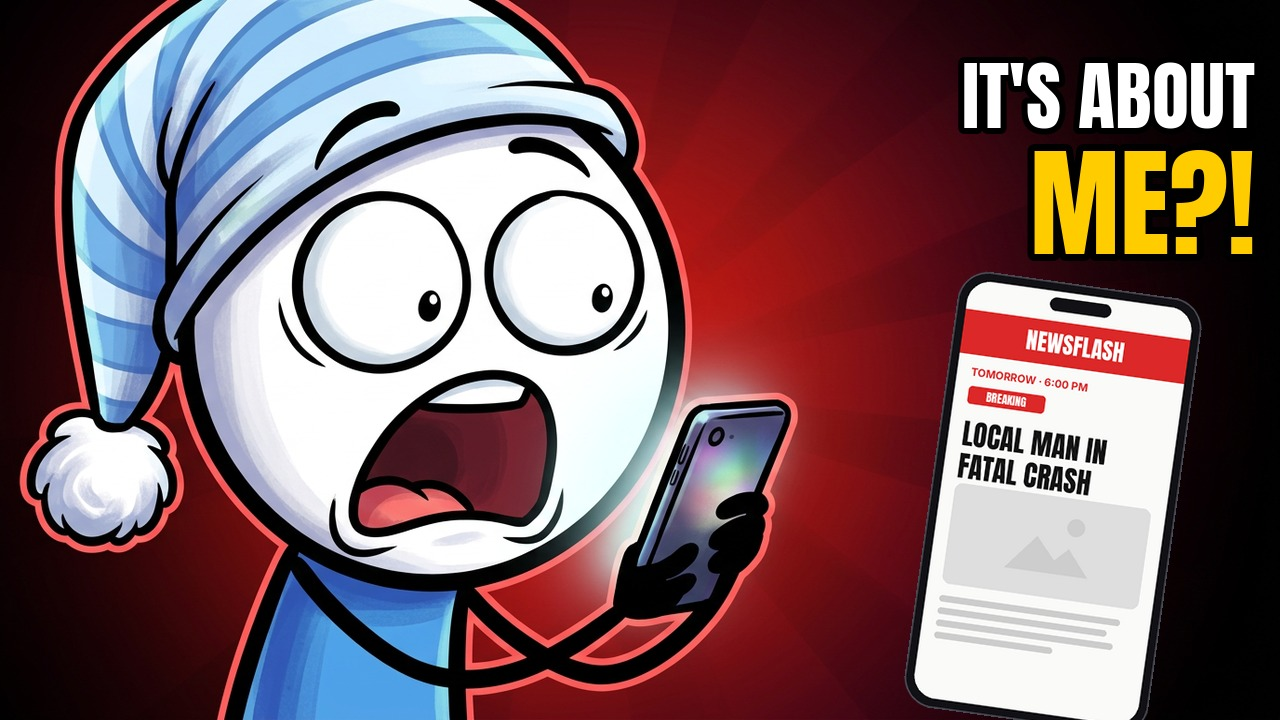
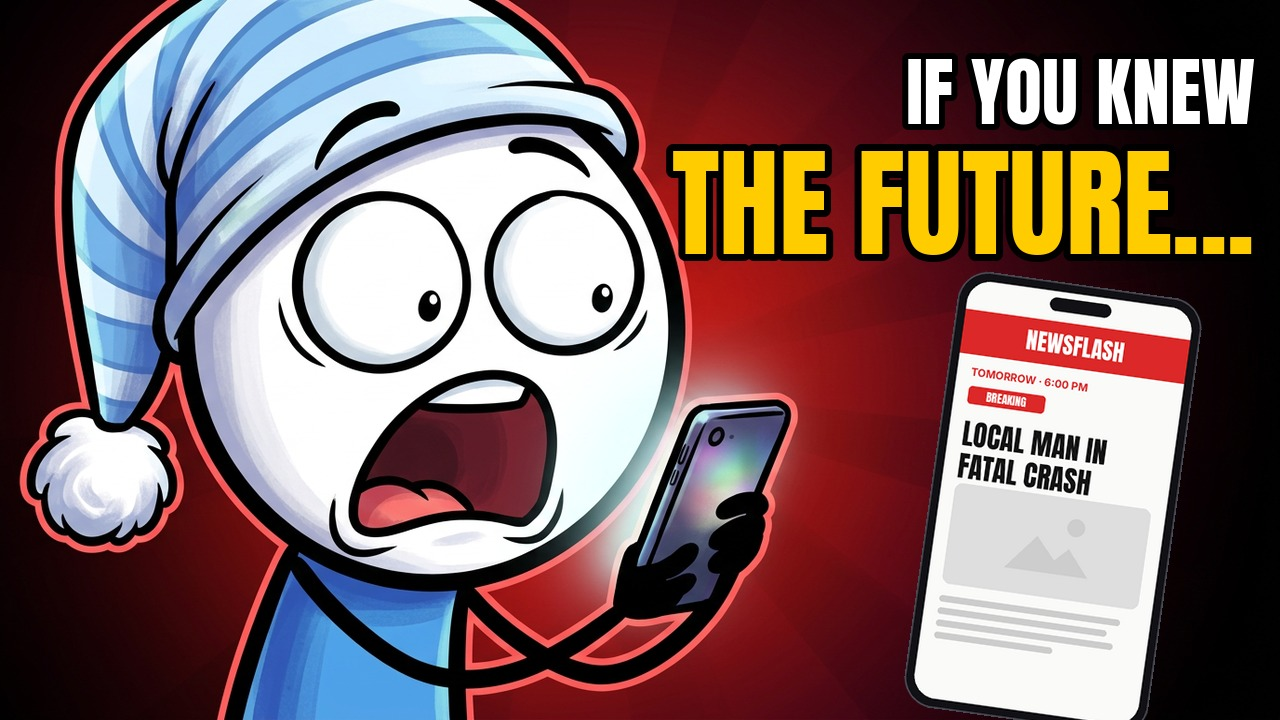
EP04: future-themed thumbnail variants
Claude-Session: https://claude.ai/code/session_013PjZvumhTLtShieoVrTh3v

Changed region(s): [[0.5, 0.0611, 1.0, 0.3667]]

diff --git a/video-studio/episodes/ep04-tomorrows-news/episode.py b/video-studio/episodes/ep04-tomorrows-news/episode.py
@@ -275,15 +275,28 @@ def build_audio():
 
 
 # ---------------------------------------------------------------- thumbnail
+THUMB_TEXT = [("IF YOU KNEW", "THE FUTURE...", "thumbnail.jpg"),
+              ("I CAN SEE", "THE FUTURE", "thumbnail_b.jpg"),
+              ("I SAW", "TOMORROW", "thumbnail_c.jpg")]
+
+
 def thumbnail():
+    for small, big, name in THUMB_TEXT:
+        _thumb(small, big, name)
+
+
+def _thumb(small, big, name):
     base = Image.open(p("img", "thumb_base.png")).convert("RGB").resize((1280, 720), Image.LANCZOS).convert("RGBA")
     ph = news_phone("TOMORROW · 6:00 PM", ["Local man in fatal crash"], 1, breaking=True, highlight="date")
     ph = ph.resize((round(PW * 0.44), round(PH * 0.44)), Image.LANCZOS).rotate(-8, Image.BICUBIC, expand=True)
     base.alpha_composite(ph, (900, 268))
     d = ImageDraw.Draw(base)
-    d.text((1255, 38), "IT'S ABOUT", font=font(76), fill=PAPER, anchor="ra", stroke_width=6, stroke_fill=(0, 0, 0))
-    d.text((1255, 112), "ME?!", font=font(120), fill=YELLOW, anchor="ra", stroke_width=7, stroke_fill=(0, 0, 0))
-    base.convert("RGB").save(p("thumbnail.jpg"), quality=92)
+    size = 120
+    while d.textlength(big, font=font(size)) > 600:
+        size -= 4
+    d.text((1255, 34), small, font=font(76), fill=PAPER, anchor="ra", stroke_width=6, stroke_fill=(0, 0, 0))
+    d.text((1255, 112), big, font=font(size), fill=YELLOW, anchor="ra", stroke_width=7, stroke_fill=(0, 0, 0))
+    base.convert("RGB").save(p(name), quality=92)
 
 
 if __name__ == "__main__":
